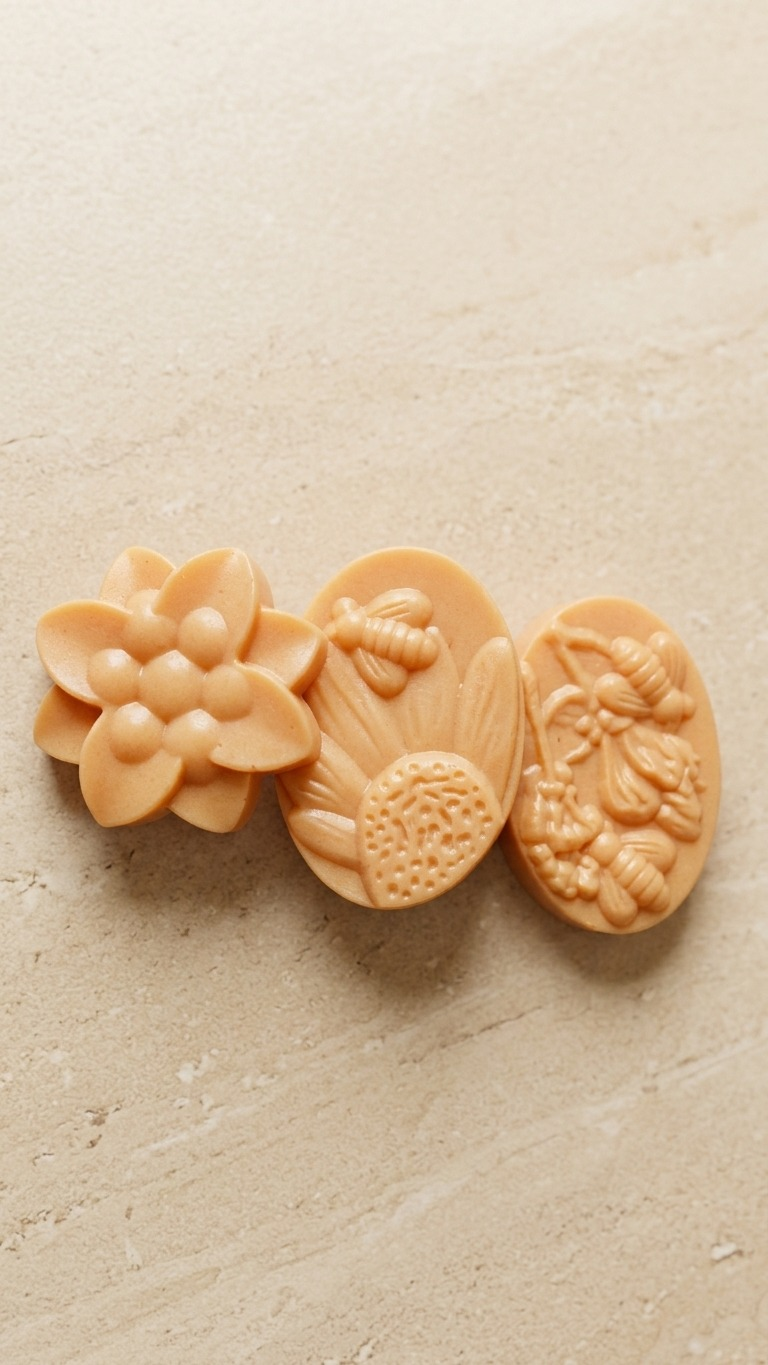
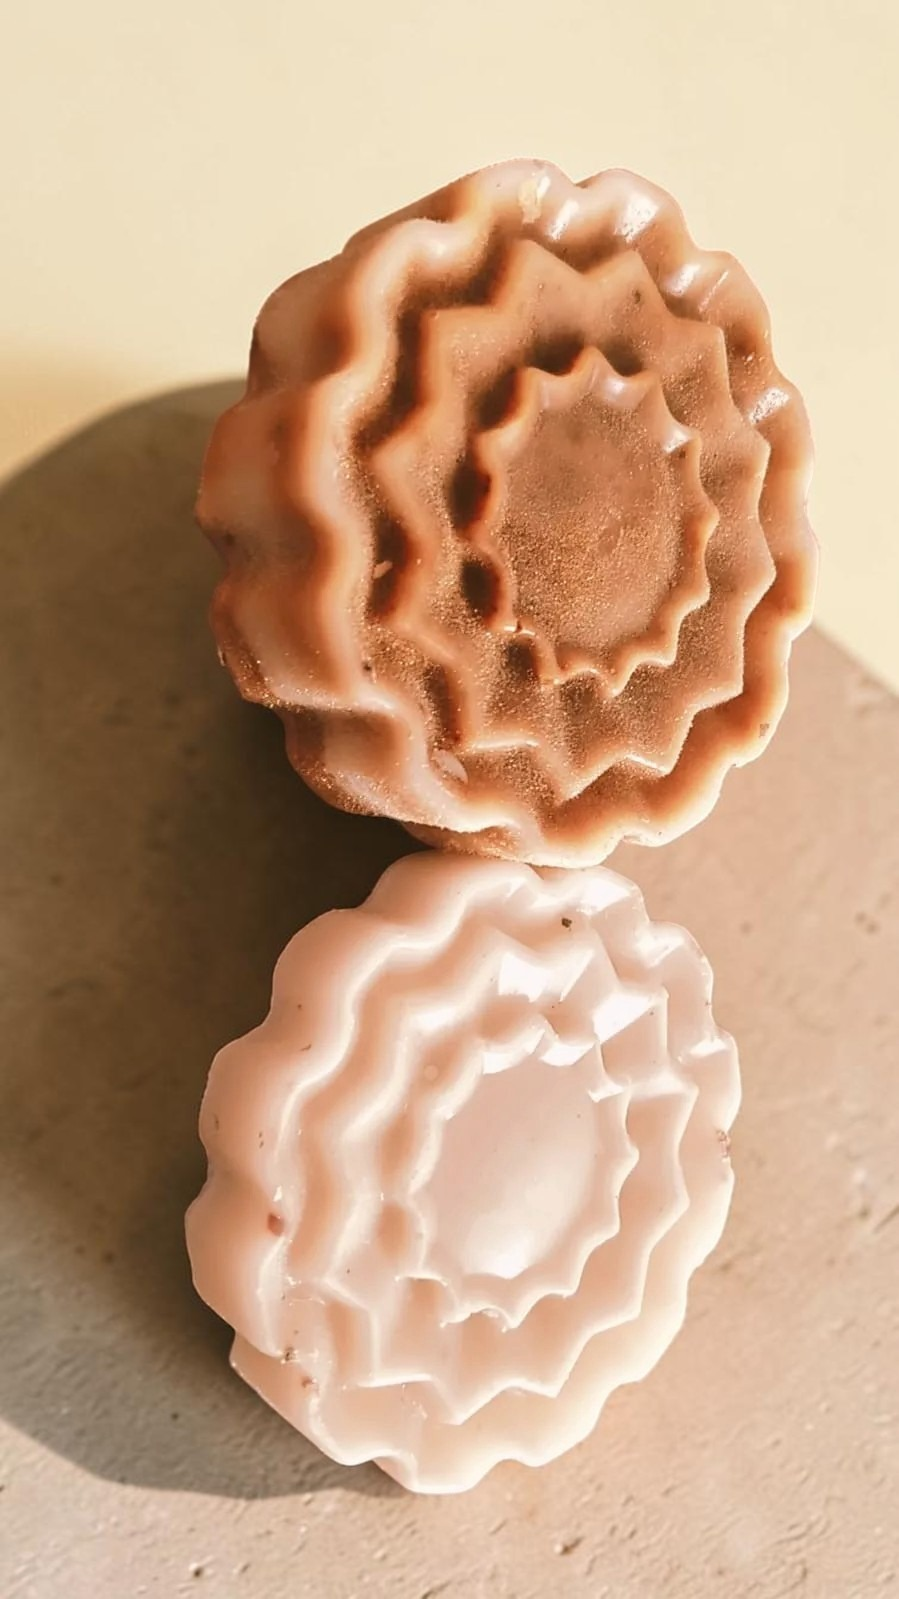
feat(catalog): update authentic photography, 50g weights, prices (Rs 200-300) and 3-column grid

diff --git a/src/app/page.tsx b/src/app/page.tsx
@@ -31,8 +31,8 @@ const SOAPS: Soap[] = [
     id: "rice-niacinamide",
     name: "Rice & Niacinamide Soap (Double Power)",
     line: "Double-strength pure niacinamide (Vitamin B3) and organic rice milk extract.",
-    price: 299,
-    weight: "125 g",
+    price: 250,
+    weight: "50 g",
     skin: ["brightening", "acne"],
     benefits: [
       "Pores tightening",
@@ -50,11 +50,11 @@ const SOAPS: Soap[] = [
     id: "rice-turmeric",
     name: "Rice & Turmeric Soap",
     line: "Raw wild kasturi turmeric, fresh organic rice milk, kokum butter & sweet orange.",
-    price: 299,
-    weight: "125 g",
+    price: 200,
+    weight: "50 g",
     skin: ["brightening", "acne"],
     benefits: [
-      "Skin tightening and glowing",
+      "Skin tightening and glowing soap",
       "Reduces pimple marks and acne",
       "Soft and supple skin",
     ],
@@ -68,8 +68,8 @@ const SOAPS: Soap[] = [
     id: "coffee-cocoa",
     name: "Coffee & Cocoa Soap",
     line: "Freshly ground Arabica coffee, pure raw cocoa butter & unrefined brown sugar.",
-    price: 299,
-    weight: "125 g",
+    price: 250,
+    weight: "50 g",
     skin: ["exfoliating", "brightening"],
     benefits: [
       "Skin glowing and nourishing",
@@ -84,10 +84,10 @@ const SOAPS: Soap[] = [
   },
   {
     id: "kojic-arbutin",
-    name: "Kojic Acid Skin Whitening Soap",
+    name: "Kojic Acid, Alpha Arbutin & Anti-Aging Soap",
     line: "Pure kojic acid, alpha arbutin, cold-pressed olive oil & sweet orange.",
-    price: 299,
-    weight: "125 g",
+    price: 300,
+    weight: "50 g",
     skin: ["brightening", "acne"],
     benefits: [
       "Reduces two-tone skin",
@@ -97,9 +97,9 @@ const SOAPS: Soap[] = [
     ],
     ingredients:
       "Cold-pressed olive oil, virgin coconut oil, pure kojic acid, alpha arbutin, unrefined shea butter, sweet orange peel essential oil.",
-    img: "/images/lumiora-kojic-acid.jpg",
+    img: "/images/lumiora-kojic-arbutin-bars.jpg",
     color: "#e69c44",
-    badge: "Skin Whitening",
+    badge: "Anti-Aging & Glow",
   },
 ];
 
@@ -519,19 +519,24 @@ export default function Home() {
 
       {/* ══════ EDITORIAL IMAGE BREAK ══════ */}
       <Reveal>
-        <div className="relative h-[60vh] min-h-[400px] overflow-hidden">
+        <div className="relative h-[60vh] min-h-[420px] overflow-hidden">
           <Image
-            src="/images/soap-pic-4.jpeg"
-            alt="Handcrafted Coffee Exfoliating Soap Bar with coffee beans"
+            src="/images/lumiora-editorial-banner.jpg"
+            alt="LUMIORA Handcrafted botanical cold-process soap bar on natural travertine stone with palm shadows"
             fill
-            className="object-cover"
+            className="object-cover object-right sm:object-center"
             sizes="100vw"
           />
-          <div className="absolute inset-0 bg-ink/30" />
-          <div className="absolute inset-0 flex items-center justify-center px-6">
-            <p className="max-w-lg text-center font-serif text-2xl font-light leading-relaxed text-white sm:text-3xl">
-              "A soap's only job is to clean gently. We don't claim more than that."
-            </p>
+          <div className="absolute inset-0 bg-gradient-to-r from-ink/65 via-ink/35 to-ink/10 sm:from-ink/50 sm:via-ink/20 sm:to-transparent" />
+          <div className="relative mx-auto flex h-full max-w-[1200px] items-center px-6 sm:px-12 lg:px-16">
+            <div className="max-w-md sm:max-w-lg">
+              <span className="text-[11px] font-semibold uppercase tracking-[0.2em] text-cream/90 block mb-3">
+                Pure Formulation
+              </span>
+              <p className="font-serif text-2xl sm:text-3xl lg:text-4xl font-light leading-relaxed text-white">
+                "A soap's only job is to clean gently. We don't claim more than that."
+              </p>
+            </div>
           </div>
         </div>
       </Reveal>

diff --git a/src/app/layout.tsx b/src/app/layout.tsx
@@ -52,7 +52,7 @@ export const metadata: Metadata = {
   openGraph: {
     title: "LUMIORA — Handcrafted Cold-Process Soap Atelier, Karachi",
     description:
-      "Pure oils, whole botanicals, four weeks on a curing rack in Karachi. Rice & Niacinamide (Double Power), Rice & Turmeric, Coffee & Cocoa, and Kojic Acid Skin Whitening bars.",
+      "Pure oils, whole botanicals, four weeks on a curing rack in Karachi. Rice & Niacinamide (Double Power), Rice & Turmeric, Coffee & Cocoa, and Kojic Acid, Alpha Arbutin & Anti-Aging bars.",
     url: baseUrl,
     siteName: "LUMIORA",
     images: [
@@ -108,7 +108,7 @@ export default function RootLayout({
       "Handcrafted cold-process soap atelier based in Karachi, Pakistan. Pure oils, whole botanicals, cured 4 weeks.",
     url: baseUrl,
     telephone: "+923222635439",
-    priceRange: "Rs. 299",
+    priceRange: "Rs. 200 - Rs. 300",
     image: `${baseUrl}/images/hero-kraft-box.jpg`,
     address: {
       "@type": "PostalAddress",
@@ -156,7 +156,7 @@ export default function RootLayout({
           brand: { "@type": "Brand", name: "LUMIORA" },
           offers: {
             "@type": "Offer",
-            price: "299",
+            price: "250",
             priceCurrency: "PKR",
             availability: "https://schema.org/InStock",
             itemCondition: "https://schema.org/NewCondition",
@@ -176,7 +176,7 @@ export default function RootLayout({
           brand: { "@type": "Brand", name: "LUMIORA" },
           offers: {
             "@type": "Offer",
-            price: "299",
+            price: "200",
             priceCurrency: "PKR",
             availability: "https://schema.org/InStock",
             itemCondition: "https://schema.org/NewCondition",
@@ -196,7 +196,7 @@ export default function RootLayout({
           brand: { "@type": "Brand", name: "LUMIORA" },
           offers: {
             "@type": "Offer",
-            price: "299",
+            price: "250",
             priceCurrency: "PKR",
             availability: "https://schema.org/InStock",
             itemCondition: "https://schema.org/NewCondition",
@@ -209,14 +209,14 @@ export default function RootLayout({
         position: 4,
         item: {
           "@type": "Product",
-          name: "Kojic Acid Skin Whitening Soap",
-          image: `${baseUrl}/images/lumiora-kojic-acid.jpg`,
+          name: "Kojic Acid, Alpha Arbutin & Anti-Aging Soap",
+          image: `${baseUrl}/images/lumiora-kojic-arbutin-bars.jpg`,
           description:
             "High-potency pure kojic acid and alpha arbutin. Reduces two-tone skin, reduces acne and pimple marks, removes dark spots, anti-aging benefits.",
           brand: { "@type": "Brand", name: "LUMIORA" },
           offers: {
             "@type": "Offer",
-            price: "299",
+            price: "300",
             priceCurrency: "PKR",
             availability: "https://schema.org/InStock",
             itemCondition: "https://schema.org/NewCondition",
